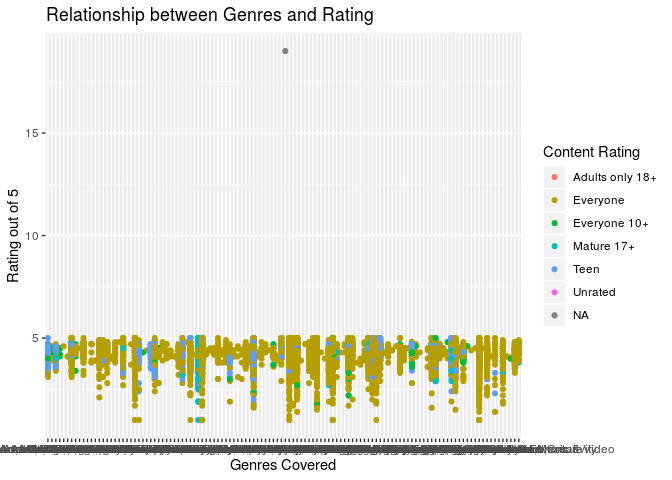
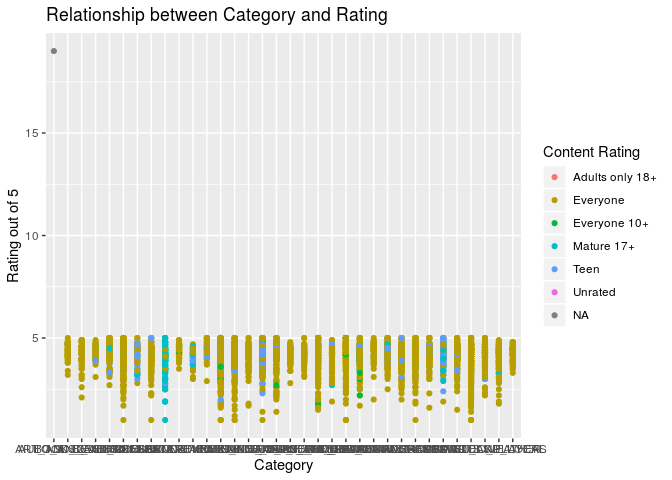
Edits

diff --git a/01-proposal/proposal.md b/01-proposal/proposal.md
@@ -62,11 +62,11 @@ Since our question of interest is measuring the effect of various
 qualities of an app on its rating, there are a number of interactions
 within our predictor variables to consider. First, there is a possible
 interaction between content rating and
-genres.
+categories.
 
 ``` r
-ggplot(apps, aes(x = Genres, y = Rating, color = `Content Rating`)) + geom_point() +
-labs( title = "Relationship between Genres and Rating", x ="Genres Covered", y = "Rating out of 5")
+ggplot(apps, aes(x = Category, y = Rating, color = `Content Rating`)) + geom_point() +
+labs( title = "Relationship between Category and Rating", x ="Category", y = "Rating out of 5")
 ```
 
     ## Warning: Removed 1474 rows containing missing values (geom_point).
@@ -74,12 +74,12 @@ labs( title = "Relationship between Genres and Rating", x ="Genres Covered", y =
 ![](proposal_files/figure-gfm/int-content-1.png)<!-- -->
 
 As shown in the plot above, there may be a correlation between having a
-lower content rating and being in a “family-friendly” genre such as
+lower content rating and being in a “family-friendly” category such as
 Family or game. This interaction will have to be considered when
 building the model. As well, there is a clear interaction between other
 categories such as Mature or Teen being heavily represented among
-certain Genres. Secondly, there may be an interaction between number of
-reviews and
+certain Categories. Secondly, there may be an interaction between number
+of reviews and
 installs.
 
 ``` r
